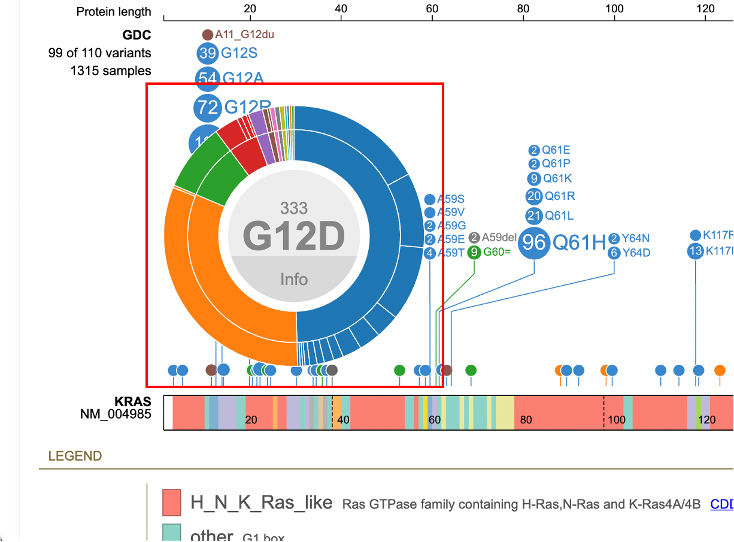
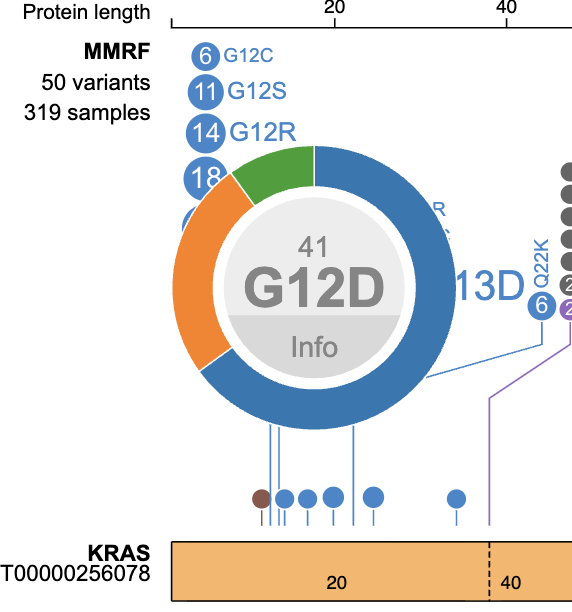
edits to ProteinPaint page & images

diff --git a/docs/mmrf-resources/user-guide/proteinpaint_lollipop.md b/docs/mmrf-resources/user-guide/proteinpaint_lollipop.md
@@ -48,7 +48,7 @@ Clicking on the number of samples opens a window to view annotations grouped by 
 
 [![Adenomas and Adenocarcinomas Example: Side-by-Side View](images/lollipop24.png)](images/lollipop24.png "Click to see the full image.")
 
-<!-- Each subtrack offers advanced filtering for users to narrow down particular features. Clicking on the value to the right of the Lollipop launches a pop-up window where users can add subsequent filters using the `+AND` or `+OR` options.
+Each subtrack offers advanced filtering for users to narrow down particular features. 
 
 [![Advanced Filtering](images/lollipop25.png)](images/lollipop25.png "Click to see the full image.")
 
@@ -56,18 +56,12 @@ Detailed variant annotation is viewable by clicking on the disc next to the vari
 
 [![Variant Occurrence](images/lollipop31.png)](images/lollipop31.png "Click to see the full image.")
 
-Hovering over the inner and outer rings displays the disease type or primary site, number of samples, and cohort size.
-
-[![Node](images/lollipop33.png)](images/lollipop33.png "Click to see the full image.")
-
 An aggregate table displaying all the samples associated with that variant is available by clicking the 'Info' button in the center of the sunburst.
 
 [![Sample Annotation Table](images/lollipop_sample_table.png)](images/lollipop_sample_table.png "Click to see the full image.")
 
-The top of the table displays consequence, mutation, and occurrence count with a link to the [GDC Mutation Summary Page](mutation_frequency.md#gene-and-mutation-summary-pages).
+The sample table contains a number of columns for various associated features per sample. Users can create a new cohort by selecting the checkboxes in the first column then clicking 'Create Cohort' in the bottom right corner of the table. The table also includes options to launch the [Disco plot](oncomatrix.md#disco-plot) for each sample.
 
-The sample table contains a number of columns for various associated features per sample such as Disease type, Mutations, and Tumor DNA Mutant Allele Frequency. Users can create a new cohort by selecting the checkboxes in the first column then clicking 'Create Cohort' in the bottom right corner of the table. The table also includes options to launch the [Disco plot](oncomatrix.md#disco-plot) and the [GDC Case Summary Page](quick_start.md#cohort-case-table) for each sample.
--->
 #### Protein View
 
 The Protein View, which displays the nucleotides, codons in the exon region, introns, and protein domains, is the primary area in which a user will visualize and interact with protein coding regions.
@@ -179,9 +173,9 @@ The lollipop chart for the variants appears above the Protein View. The circular
 
 Exon variants report the amino acid change at the referenced codon. For example, G12D is a G > D substitution at the 12th codon of the protein.
 
-Clickable links for the number of cases (e.g. 1315 samples) and number of variants (e.g. 99 out of 110 variants) appear to the left of the lollipop. Clicking on these links reveals detailed annotations about the samples and variants, described in the next section "Viewing Variants and Case Samples".
+Clickable links for the number of cases and number of variants appear to the left of the lollipop. Clicking on these links reveals detailed annotations about the samples and variants, described in the next section "Viewing Variants and Case Samples".
 
-[![Sample and Variant Annotations](images/lollipop11.png)](images/lollipop11.png "Click to see the full image.")
+[![Sample and Variant Annotations](images/lollipop11.png)](images/lollipop11.png "Click to see the full image.") -->
 
 ## Viewing Variants and Case Samples
 
@@ -196,16 +190,14 @@ A pop-up window appears with the entire list of variants, as shown below.
 
 Lollipop plot limits up to 2000 variants. When this limit is exceeded, the number of variants label is in red; click the label to see an alert message.
 
-[![Exceeds limit](images/lollipop13.5.png)](images/lollipop13.5.png "Click to see the full image.")
-
-<!--Click on the variant of interest and a new annotation table appears. From the table, view various associated features per sample such as: Disease type, Primary site, Project id, Gender, Race, Ethnicity, and Tumor DNA Mutant Allele Frequency (MAF). In the figure below, 333 occurrences are shown for the G12D variant, which represents a missense mutation at chromosome chr12:25245350 C>T.  
+Click on the variant of interest and a new annotation table appears. From the table, view various associated features per sample such as: Sample.Gender, Race, Mutations, Tumor WGS, Germline WGS, Tumor RNA-seq, Source of the variant. 
 [![Annotation Table](images/lollipop14.png)](images/lollipop14.png "Click to see the full image.")
 
-The first sample that is highlighted in yellow is a male with ductal and lobular neoplasms with a tumor DNA MAF of 31/125. This indicates 31 mutant alleles were found out of 125 total alleles. -->
+The first sample that is highlighted in yellow is a male with ductal and lobular neoplasms with a tumor DNA MAF of 31/125. This indicates 31 mutant alleles were found out of 125 total alleles.
 
 Click 'Back to list' and select another sample, as shown below.
 
-[![Back to List](images/lollipop15.png)](images/lollipop15.png "Click to see the full image.")
+[![Back to List](images/lollipop15.png)](images/lollipop15.png "Click to see the full image.") 
 
 After clicking on the variant menu again, select the 'Collapse' option to collapse all skewers in the lollipop.
 
@@ -219,7 +211,7 @@ The lollipop chart includes an option to arrange variants by the range of occurr
 
 [![Occurrence as Y Axis](images/lollipop18.png)](images/lollipop18.png "Click to see the full image.")
 
-The lollipop re-renders with the variants sorted on the y-axis from lowest and highest occurrence. Hover over a variant to display the number of occurrences. In the example below, a user is hovering over G12D to display 333 occurrences of this variant.
+The lollipop re-renders with the variants sorted on the y-axis from lowest and highest occurrence. Hover over a variant to display the number of occurrences.
 
 [![Number of Occurrences](images/lollipop19.png)](images/lollipop19.png "Click to see the full image.")
 
@@ -229,23 +221,23 @@ Clicking on the variant loads the sample table again as shown below.
 
 ### Case Filtering
 
-Clicking on the sample hyperlink on the left of the lollipop (e.g. 1315 samples) opens a menu to list all samples. Aggregate data for all samples by attribute appears in a series of tabs. The ability for advanced filtering and creating subtracks is available from this new display.
+Clicking on the sample hyperlink on the left of the lollipop (e.g. 319 samples) opens a menu to list all samples. Aggregate data for all samples by attribute appears in a series of tabs. The ability for advanced filtering and creating subtracks is available from this new display.
 
 [![Menu to List All Samples](images/lollipop21.png)](images/lollipop21.png "Click to see the full image.")
 
-Click on 1315 samples to view annotations grouped by attributes such as: Disease type, Primary site, Project id, Gender, Race, Ethnicity, etc.. For each attribute, the number of values is represented by 'n' to the right of the group label. In the figure below, 21 values for Disease type are reported.
+Click on 319 samples to view annotations grouped by attributes such as: Gender, Race, Disease Type, etc.. For each attribute, the number of values is represented by 'n' to the right of the group label. 
 
 [![Annotations Grouped by Attributes Example: Disease type](images/lollipop22.png)](images/lollipop22.png "Click to see the full image.")
 
-To start filtering, click on the value label or the value's sample fraction. Clicking on 'Adenomas and Adenocarcinomas' or '675/ 4866' for example, loads a new lollipop subtrack underneath the main GDC lollipop track.
+To start filtering, click on the value label or the value's sample fraction. Clicking on 'Female' or '127/ 1421' for example, loads a new lollipop subtrack underneath the main GDC lollipop track.
 
 [![Filtering Example: Adenomas and Adenocarcinomas](images/lollipop23.png)](images/lollipop23.png "Click to see the full image.")
 
-This new subtrack only shows the 675 Adenomas and Adenocarcinomas samples. This side-by-side view allows for a comparison between the mutations in the main track vs the subtrack.
+This new subtrack only shows the 127 Female subjects. This side-by-side view allows for a comparison between the mutations in the main track vs the subtrack.
 
-[![Adenomas and Adenocarcinomas Example: Side-by-Side View](images/lollipop24.png)](images/lollipop24.png "Click to see the full image.")
+[![Adenomas and Adenocarcinomas Example: Side-by-Side View](images/lollipop24.png)](images/lollipop24.png "Click to see the full image.") 
 
-Each subtrack offers advanced filtering, shown below, for users to narrow down particular features.
+<!--Each subtrack offers advanced filtering, shown below, for users to narrow down particular features.
 
 [![Advanced Filtering](images/lollipop25.png)](images/lollipop25.png "Click to see the full image.")
 
@@ -253,22 +245,22 @@ Clicking on 'Filter' displays a pop-up window with the feature the user selected
 
 Click on the 'Close' option to remove the subtrack from the page.
 
-[![Remove Subtrack](images/lollipop29.png)](images/lollipop29.png "Click to see the full image.")
+[![Remove Subtrack](images/lollipop29.png)](images/lollipop29.png "Click to see the full image.") -->
 
 ### Viewing in the Lollipop Display
 In the lollipop chart, users can drag the protein track down by clicking the name of the gene on the left of the protein track and pulling it below the lollipop chart.
 
 [![Protein Track](images/lollipop30.png)](images/lollipop30.png "Click to see the full image.")
 
-Detailed variant annotation is viewable by clicking on the variant disc next to the label. For G12D highlighted in a red outline in the image above, click on the '333' disc. A sunburst chart will appear, shown below.
+Detailed variant annotation is viewable by clicking on the variant disc next to the label. For G12D highlighted in a red outline in the image above, click on the '41' disc. A sunburst chart will appear, shown below.
 
-The center displays the occurrence of the variant (333) above the variant label. The ring
+The center displays the occurrence of the variant (41) above the variant label. The ring
 
 [![Variant Occurrence](images/lollipop31.png)](images/lollipop31.png "Click to see the full image.")
 
-hierarchy is arranged by disease types then broken down by primary sites. Hovering over the inner ring displays the disease type, number of samples, and cohort size. In this example, the inner green ring displays 'Plasma Cell Tumors' with 28 samples out of a total 949 samples.
+hierarchy is arranged by disease types then broken down by primary sites. Hovering over the inner ring displays the disease type, number of samples, and cohort size. In this example, the inner green ring displays 'Plasma Cell Tumors' with 41 samples out of a total 319 samples.
 
-The outer ring represents the primary sites. Hovering over the primary site displays the number of samples relative to the disease type. In the figure below, for Ductal and lobular
+<!--The outer ring represents the primary sites. Hovering over the primary site displays the number of samples relative to the disease type. In the figure below, for Ductal and lobular
 
 [![Variant Occurrence](images/lollipop32.png)](images/lollipop32.png "Click to see the full image.")
 
@@ -284,7 +276,7 @@ An aggregate sample table is available by clicking the 'Info' button in the cent
 
 Clicking on the sample name hyperlink opens a new tab to the sample's GDC Case Summary page.
 
-Clicking on the variant label or anywhere outside of the sunburst removes the sunburst chart.
+Clicking on the variant label or anywhere outside of the sunburst removes the sunburst chart.-->
 
 ### Working With the Protein Track
 There are two zoom methods: highlighting a region and zoom buttons in the toolbar. For viewing a nucleotide of interest, click and drag the mouse in the top, x-axis, Protein length scale. The region appears highlighted in red with the calculated protein length in center.
@@ -315,7 +307,7 @@ Clicking on the colored box next to the protein domain label removes the color f
 Custom protein domains are added by clicking on the '+add protein domain' button at the bottom of the list. An input box appears requiring the following information:
 1. Name, text with space, no semicolon: This is the name of the protein domain
 2. Range, two integers joined by space: This is the codon position - start and stop
-3. Color (e.g., red, #FF0000, rgb (255,0,0)): This is the color to assign to the protein domain.
+3. Color (e.g., red, #FF0000, rgb (255,0,0)): This is the color to assign to the protein domain. 
 
 ### MMRF Mutations
 The lollipop discs are color coded per MMRF mutation classes. The legend for the mutations appears below the protein domains with more advanced show/hide functions.

diff --git a/docs/mmrf-resources/user-guide/oncomatrix.md b/docs/mmrf-resources/user-guide/oncomatrix.md
@@ -128,7 +128,7 @@ Additionally, to have a finer control on the zoom the user may follow the steps 
 
 ### Clicking on sample columns
 
-In the same zoomed in view as shown above, click on any sample column for TP53. This displays a clickable button `Disco plot` as shown.
+In the same zoomed in view as shown above, click on any sample column for KRAS. This displays a clickable button `Disco plot` as shown.
 
 [![Clicking on sample column label](./images/oncomatrix/6-clicksamplebtn.png)](./images/oncomatrix/6-clicksamplebtn.png 'Click to see the full image.')
 
@@ -502,7 +502,7 @@ Scroll down to view individual samples at the bottom of the plot as shown below.
 
 The zoom action can also be implemented by following steps as outlined in section - Drag to zoom.
 
-<!--## Disco Plot
+## Disco Plot
 
 Click on any sample to reveal a second type of plot called as the `Disco Plot` as shown.
 
@@ -514,7 +514,7 @@ Click on `Disco plot` as shown above in gray. This loads a new chart above the m
 
 This plot shows all the mutations and CNV associated with that sample id as shown above. The plot also displays the legend for the mutation class and the CNV.
 
-To reset the zoom level to default, click on the `Reset` button as shown. This will reset the zoom level to a default of 1.0
+<!--To reset the zoom level to default, click on the `Reset` button as shown. This will reset the zoom level to a default of 1.0
 
 [![Reset Zoom](./images/oncomatrix/55-reset_zoom.png)](./images/oncomatrix/55-reset_zoom.png 'Click to see the full image.')
 -->
